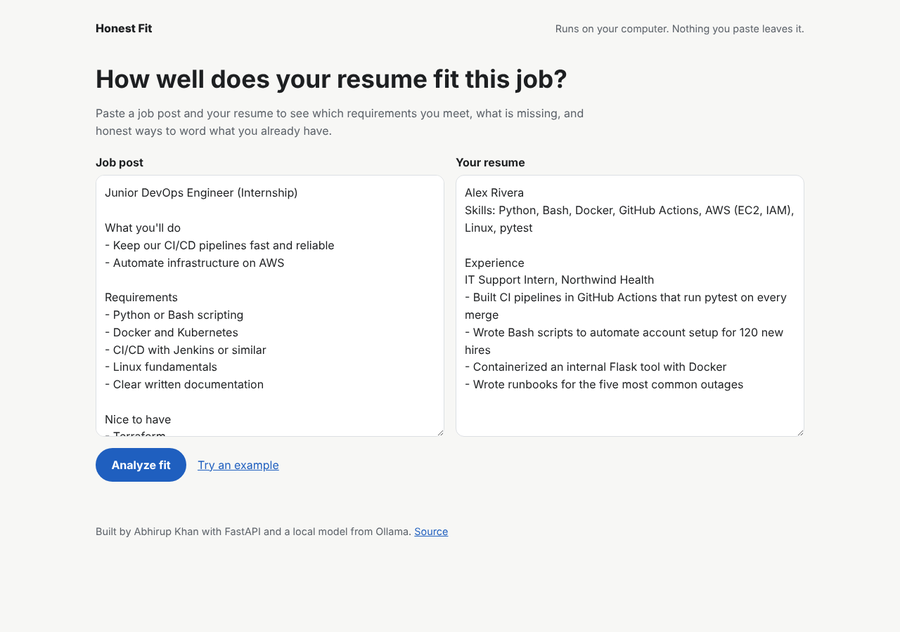
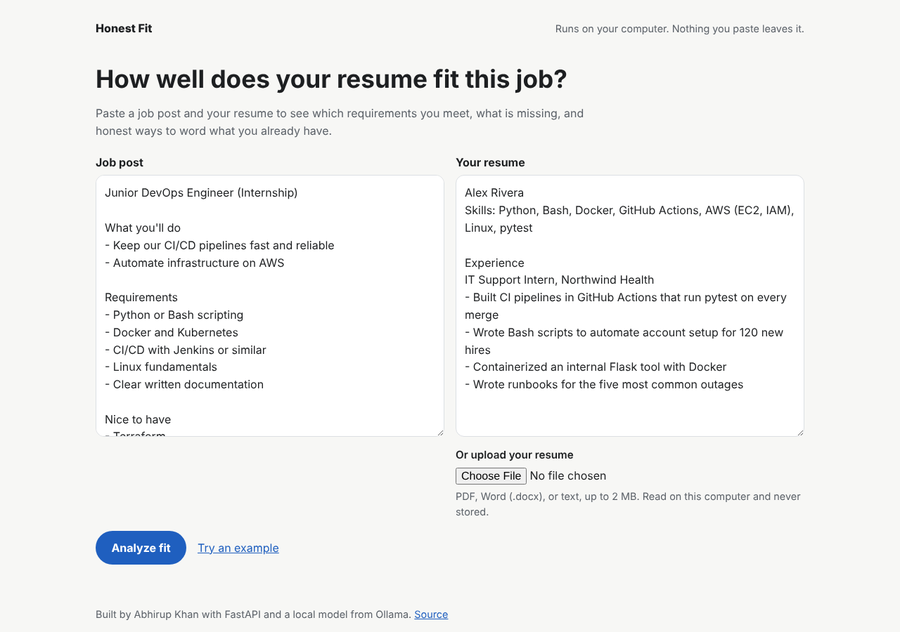
Document resume uploads and their safeguards
README, security policy, and changelog (0.2.0) now cover resume upload,
its safeguards, the pypdf advisories, and the bug the fuzzer found, and
the form screenshot shows the new upload field.

diff --git a/README.md b/README.md
@@ -6,7 +6,7 @@
 [![OpenSSF Scorecard](https://api.scorecard.dev/projects/github.com/Abhirup-code/Honest_Fit/badge)](https://scorecard.dev/viewer/?uri=github.com/Abhirup-code/Honest_Fit)
 [![License: Apache 2.0](https://img.shields.io/badge/License-Apache_2.0-blue.svg)](LICENSE)
 
-Paste a job post and your resume to see which requirements you meet, what is missing, and **honest** ways to word
+Paste a job post and your resume (or upload it as a PDF or Word file) to see which requirements you meet, what is missing, and **honest** ways to word
 what you already have. It runs entirely on your computer with a free local model from [Ollama](https://ollama.com),
 so your resume never leaves your machine and there is no API key or cost.
 
@@ -28,7 +28,8 @@ skill you do not have, invent a number, or quote a line that is not in your resu
 | **Smart reading** | About 170 skills with the ways people write them (k8s, Postgres, C#, CI/CD). Reads "Requirements" and "Nice to have" sections, and "is a plus" or "familiarity with" sentence by sentence. Words like Go, R, React, and Excel only count in context, so "react quickly" or "excel at teamwork" are not skills. |
 | **Local AI (optional)** | With Ollama running, the model finds requirements the catalogue missed (for example PagerDuty) and suggests rewording for your existing lines. Without Ollama, everything else still works. |
 | **Honesty guard** | Every AI tip must quote a real line from your resume, may not add a skill your resume does not show, and may not add a number that was not in the original line. Blocked tips are listed with the reason. |
-| **JSON API** | `POST /api/analyze` returns the same report as JSON; interactive docs at `/api/docs`. |
+| **Upload your resume** | Upload a PDF, Word .docx, or text file instead of pasting. The extracted text fills the resume box so you can check it first. Scanned PDFs with no text get a clear message. |
+| **JSON API** | `POST /api/analyze` returns the same report as JSON, and `POST /api/resume-text` turns an uploaded file into text; interactive docs at `/api/docs`. |
 
 ## The honesty guard
 
@@ -113,20 +114,22 @@ flowchart LR
 
 | | |
 |---|---|
-| Tests | 66 pytest tests with 100% line and branch coverage; CI fails under 95% |
+| Tests | 99 pytest tests with about 99% line and branch coverage, using real PDF and Word files and hostile ones (zip bombs, entity-expansion XML, password-protected and oversized PDFs); CI fails under 95% |
 | Fuzzing | Hypothesis property tests: random job posts, resumes, and model output must never crash the analysis, push a score outside 0 to 100, mark a skill as both matched and missing, or get a skill-adding tip past the guard |
-| Coverage-guided fuzzing | [Atheris](https://github.com/google/atheris) runs for 5 minutes in CI, mutating job posts, resumes, and model answers to reach new code paths, and fails on any crash, a score outside 0 to 100, or the guard letting through a new skill or number. A local two-minute run made about 73,000 attempts with no failures. |
+| Coverage-guided fuzzing | [Atheris](https://github.com/google/atheris) runs in CI against two targets: the analysis and honesty guard (any crash, a score outside 0 to 100, or a new skill or number getting through fails the build), and the PDF and Word readers (anything other than text or a friendly error fails). The upload fuzzer found a real bug within two minutes, a malformed PDF filter that raised an unhandled error, which is now fixed and kept as a regression test. |
 | AI without a model | Tests run against a fake Ollama server, including malformed answers, timeouts, oversized output, and a prompt-injection attempt |
 | Accessibility | axe-core finds no WCAG 2.1 AA violations on the form or results, in light and dark mode, on desktop and phone |
 | Static analysis | ruff (including flake8-bandit security rules), bandit, and CodeQL for Python, JavaScript, and the workflows |
 | Supply chain | Every dependency pinned with SHA-256 hashes; only versions at least two weeks old, except documented security fixes; pip-audit, Dependabot with the same cooldown, every Action pinned to a commit, zizmor workflow lint, dependency review |
 | Secrets | gitleaks scans the full git history on every push |
 | Container | Non-root (UID 10001), read-only filesystem, all capabilities dropped, no pip in the image; Trivy fails the build on fixable critical or high vulnerabilities; CI smoke-tests the running container |
+| Uploads | Type checked by contents, not file name; 2 MB and 10-page limits; zip-bomb checks and defusedxml for Word files; parsing in a separate process with a 10-second time limit and a memory cap; never stored |
 | Web | Content-Security-Policy with no inline or third-party scripts, no framing, `no-store` caching, escaped output, input limits |
 
-While setting this up, pip-audit caught two real advisories in freshly locked dependencies: a compromised root
-certificate in certifi (PYSEC-2026-4320) and lock-file attacks in filelock. Both were raised to fixed versions ahead
-of the two-week cooldown, with the reason recorded next to the pin.
+While building this, pip-audit caught real advisories in freshly locked dependencies: a compromised root certificate
+in certifi (PYSEC-2026-4320), lock-file attacks in filelock, and six denial-of-service bugs in pypdf, where a
+crafted PDF uses huge memory or time. Each was raised to a fixed version ahead of the two-week cooldown, with the
+reason recorded next to the pin.
 
 ## Limitations
 
@@ -145,11 +148,12 @@ app/
   llm.py         Ollama client with JSON-schema answers
   guard.py       the honesty guard
   service.py     one analysis: keyword report plus AI extras
+  extract.py     safe text extraction from uploaded PDF, Word, and text files
   main.py        FastAPI web page, JSON API, security headers
   templates/     page template
   static/        CSS and a small script
 tests/           pytest, Hypothesis property tests, fake Ollama
-fuzz/            Atheris coverage-guided fuzz test
+fuzz/            Atheris fuzz targets and a seed corpus
 ```
 
 ## License

diff --git a/SECURITY.md b/SECURITY.md
@@ -17,6 +17,10 @@ Only the latest version on `main` receives fixes.
 - **Bound to localhost.** The Docker setup publishes the app on `127.0.0.1` only.
 - **Untrusted input.** Job posts and resumes are length-capped, escaped when shown, and fenced as data in prompts.
   The page's Content-Security-Policy allows no inline or third-party scripts.
+- **Untrusted uploads.** Resume files are identified by their contents, not their names, and limited to 2 MB
+  and 10 PDF pages. Word files are checked for zip bombs and parsed with defusedxml, which refuses DTD and
+  entity-expansion attacks in any encoding. PDF and Word parsing runs in a separate process with a 10-second
+  time limit and a memory cap, so a hostile file can only take down that child process. Uploads are never stored.
 - **Untrusted model output.** Every answer must match a strict JSON schema. Wording tips then pass the honesty guard,
   which rejects any tip that quotes a line not in your resume, adds a skill the resume does not show, or adds a
   number. Extra requirements must actually appear in the job post.
@@ -25,7 +29,8 @@ Only the latest version on `main` receives fixes.
 
 - Every Python dependency is pinned with SHA-256 hashes and installed with `--require-hashes`.
 - Only versions at least two weeks old are locked in, except security fixes, which are documented in
-  `requirements.in` (for example certifi for PYSEC-2026-4320). Dependabot uses the same two-week cooldown.
+  `requirements.in` (certifi for PYSEC-2026-4320, and pypdf 6.21.2 for six denial-of-service advisories). Dependabot uses the same two-week cooldown.
 - Every GitHub Action is pinned to a full commit hash, and workflows default to read-only permissions.
 - CI runs ruff (with security rules), bandit, CodeQL, gitleaks over the full history, pip-audit, Trivy on the
-  container image, zizmor on the workflows, dependency review on pull requests, and OpenSSF Scorecard.
+  container image, zizmor on the workflows, dependency review on pull requests, OpenSSF Scorecard, and
+  Atheris fuzzing of the analysis, the honesty guard, and the upload readers.

diff --git a/CHANGELOG.md b/CHANGELOG.md
@@ -4,6 +4,23 @@ All notable changes to Honest Fit are listed here. The format follows
 [Keep a Changelog](https://keepachangelog.com/en/1.1.0/), and versions follow
 [Semantic Versioning](https://semver.org/).
 
+## [0.2.0] - 2026-10-28
+
+### Added
+- Upload a resume as a PDF, Word .docx, or text file (up to 2 MB). The extracted text fills the resume box so
+  you can check it before analyzing. `POST /api/resume-text` returns the same text as JSON.
+- Upload safety: type detection by contents, size and page limits, zip-bomb and XML-attack protection with
+  defusedxml, and parsing in a separate process with time and memory limits.
+- A second Atheris fuzz target for the upload readers, and a property test that any bytes give text or a
+  friendly error.
+
+### Fixed
+- A malformed PDF with an unknown compression filter raised an unhandled error in the in-process reader.
+  Found by the new fuzz target within two minutes; any parser failure now becomes a clear message.
+
+### Security
+- pypdf raised to 6.21.2 ahead of the two-week cooldown for six denial-of-service advisories.
+
 ## [0.1.0] - 2026-10-28
 
 ### Added
@@ -19,4 +36,5 @@ All notable changes to Honest Fit are listed here. The format follows
 - certifi raised to 2026.10.19 (PYSEC-2026-4320) and filelock to 4.2.1 or later in CI tools, ahead of the
   two-week dependency cooldown.
 
+[0.2.0]: https://github.com/Abhirup-code/Honest_Fit/releases/tag/v0.2.0
 [0.1.0]: https://github.com/Abhirup-code/Honest_Fit/releases/tag/v0.1.0
